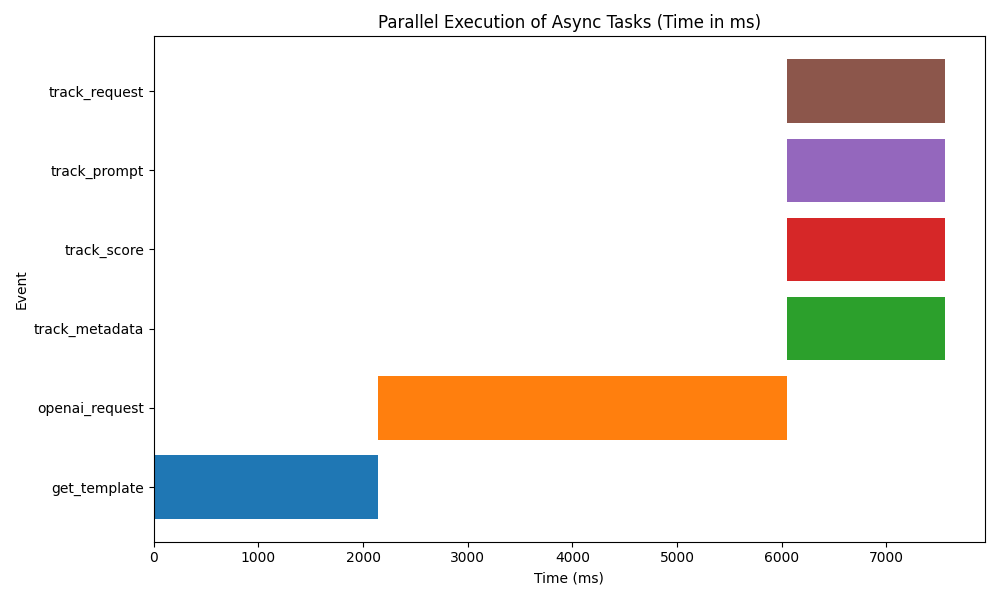
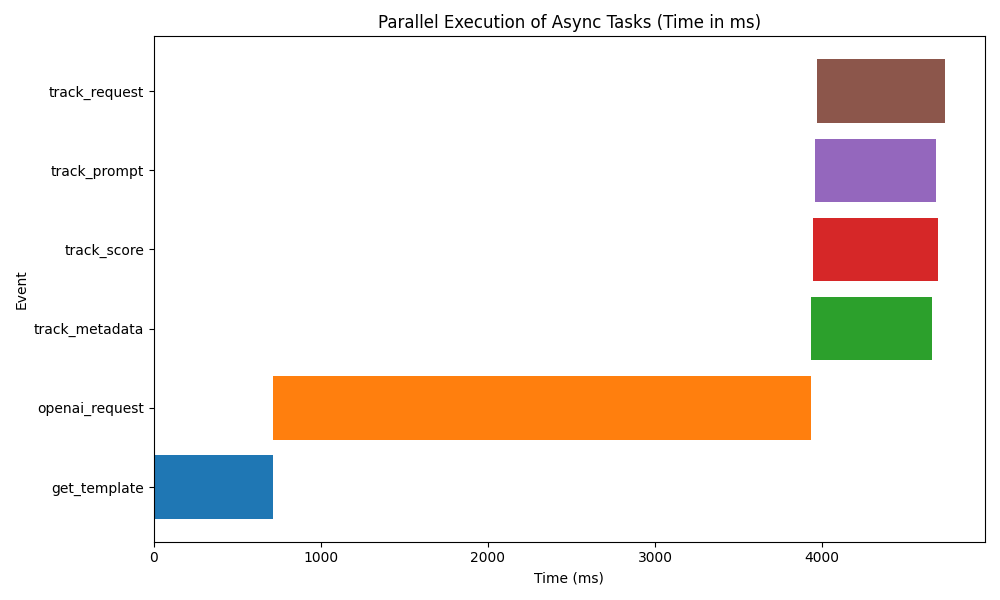
async gatehr logs updated

diff --git a/test2.py b/test2.py
@@ -6,60 +6,67 @@ from create_plot import create_plot
 from log_time import log_time
 from dotenv import load_dotenv
 
-
 load_dotenv()
-# values are taken from the environment when the class is created
 PROMPTLAYER_API_KEY = os.getenv("PROMPTLAYER_API_KEY")
 
-async_pl = AsyncPromptLayer(
-    api_key=PROMPTLAYER_API_KEY
-)
+async_pl = AsyncPromptLayer(api_key=PROMPTLAYER_API_KEY)
+pl = PromptLayer(api_key=PROMPTLAYER_API_KEY)
 
-pl = PromptLayer(
-    api_key=PROMPTLAYER_API_KEY
-)
+async def fetch_template(timestamps, start_time, prompt_name="Test"):
+    log_time(timestamps, start_time, "get_template", start=True)
+    template = await async_pl.templates.get(prompt_name)
+    log_time(timestamps, start_time, "get_template", start=False)
+    return template
+
+async def track_metadata(timestamps, start_time, pl_request_id):
+    log_time(timestamps, start_time, "track_metadata", start=True)
+    await async_pl.track.metadata(pl_request_id, {"test": "test"})
+    log_time(timestamps, start_time, "track_metadata", start=False)
+
+async def track_score(timestamps, start_time, pl_request_id):
+    log_time(timestamps, start_time, "track_score", start=True)
+    await async_pl.track.score(pl_request_id, 100)
+    log_time(timestamps, start_time, "track_score", start=False)
+
+async def track_prompt(timestamps, start_time, pl_request_id):
+    log_time(timestamps, start_time, "track_prompt", start=True)
+    await async_pl.track.prompt(pl_request_id, "Test", {})
+    log_time(timestamps, start_time, "track_prompt", start=False)
+
+async def log_request(timestamps, start_time, pl_request_id, template):
+    log_time(timestamps, start_time, "track_request", start=True)
+    await async_pl.log_request(
+        provider="openai",
+        model="gpt-4o-mini",
+        input=template["prompt_template"],
+        output=template["prompt_template"],
+        request_start_time=time.time(),
+        request_end_time=time.time(),
+    )
+    log_time(timestamps, start_time, "track_request", start=False)
 
 async def main_func():
     timestamps = []
     start_time = time.time()
 
-    # First async operation
-    get_template_start = log_time(timestamps, start_time, "get_template")
-    template = await async_pl.templates.get("Test")
-    log_time(timestamps, start_time, "get_template", start=False)
+    # First async operation to fetch the template
+    template = await fetch_template(timestamps, start_time, "Test")
 
-    # Start async calls that can be parallelized
-    openai_request_start = log_time(timestamps, start_time, "openai_request")
+    # Simulate an OpenAI request
+    log_time(timestamps, start_time, "openai_request", start=True)
     OpenAI = pl.openai.OpenAI
     response, pl_request_id = OpenAI().chat.completions.create(
         **template["llm_kwargs"], return_pl_id=True
     )
     log_time(timestamps, start_time, "openai_request", start=False)
 
-    # Run tracking metadata, score, prompt, and request in parallel
-    track_metadata_start = log_time(timestamps, start_time, "track_metadata")
-    track_score_start = log_time(timestamps, start_time, "track_score")
-    track_prompt_start = log_time(timestamps, start_time, "track_prompt")
-    track_request_start = log_time(timestamps, start_time, "track_request")
-
+    # Run tracking operations in parallel, logging time for each
     await asyncio.gather(
-        async_pl.track.metadata(pl_request_id, {"test": "test"}),  # Metadata tracking
-        async_pl.track.score(pl_request_id, 100),  # Score tracking
-        async_pl.track.prompt(pl_request_id, "Test", {}),  # Prompt tracking
-        async_pl.log_request(  # Request logging
-            provider="openai",
-            model="gpt-4o-mini",
-            input=template["prompt_template"],
-            output=template["prompt_template"],
-            request_start_time=time.time(),
-            request_end_time=time.time(),
-        )
+        track_metadata(timestamps, start_time, pl_request_id),
+        track_score(timestamps, start_time, pl_request_id),
+        track_prompt(timestamps, start_time, pl_request_id),
+        log_request(timestamps, start_time, pl_request_id, template)
     )
-
-    log_time(timestamps, start_time, "track_metadata", start=False)
-    log_time(timestamps, start_time, "track_score", start=False)
-    log_time(timestamps, start_time, "track_prompt", start=False)
-    log_time(timestamps, start_time, "track_request", start=False)
 
     return timestamps
 
@@ -70,7 +77,8 @@ async def main():
     print("End")
     print("latency: ", time.time() - start_time)
 
-    create_plot(timestamps=timestamps)
+    # Create a plot to visualize the timings
+    create_plot(timestamps=timestamps, title="Parallel Execution of Async Tasks (Time in ms)")
 
 # Run the main function
 asyncio.run(main())
